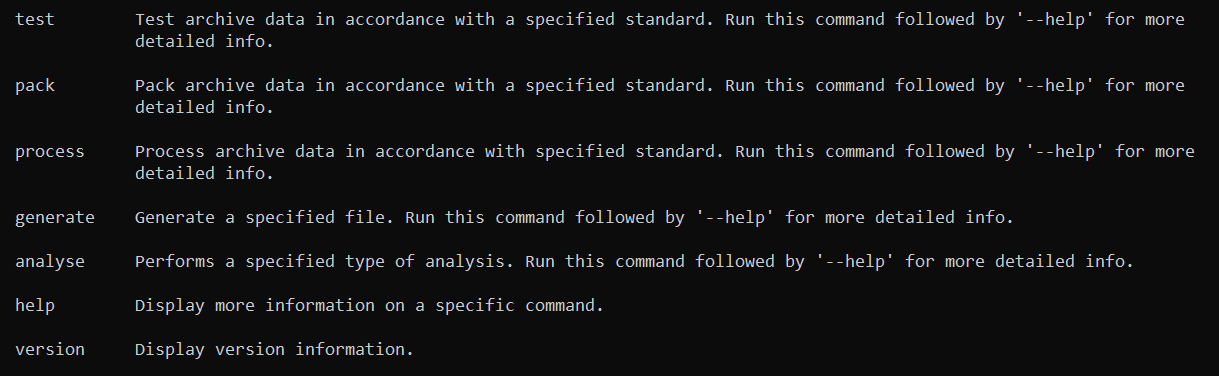
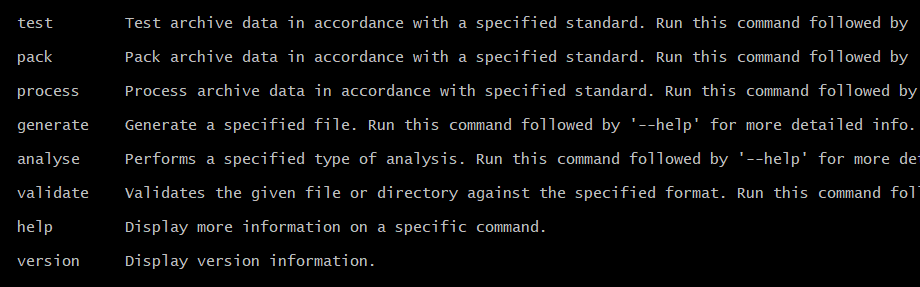
Update user and installation guides regarding archive format validation
ARKADE-570

diff --git a/Installasjonsveiledning.rst b/Installasjonsveiledning.rst
@@ -48,15 +48,12 @@ Aktiver støtte for validering av SIARD-2.1-filer
 
 For at Arkade skal støtte bruk av verktøyet |database_preservation_toolkit_link| for validering av Siard-filer må følgende instruksjoner utføres:
 
-Installer Java Runtime Environment
-----------------------------------
-* Last ned installasjonsfil for Java Runtime Environment (JRE) fra |java_download_link|
-* Installer JRE ved å dobbeltklikke den nedlastede filen
+* Installer Java Runtime Environment (`hjelp <Installasjonsveiledning.html#jre-info>`_)
 
-Tilgjengeligjør DBPTK Developer for Arkade
-------------------------------------------
-* Last ned :download:`dbptk-app-2.9.9.jar <https://github.com/keeps/dbptk-developer/releases/download/v2.9.9/dbptk-app-2.9.9.jar>`
-* Lagre den nedlastede filen under :file:`<arkadeinstallasjonsmappe>/ThirdPartySoftware/DBPTK/`.
+* Tilgjengeligjør DBPTK Developer for Arkade
+
+	- Last ned :download:`dbptk-app-2.9.9.jar <https://github.com/keeps/dbptk-developer/releases/download/v2.9.9/dbptk-app-2.9.9.jar>`
+	- Lagre den nedlastede filen under :file:`<arkadeinstallasjonsmappe>/ThirdPartySoftware/DBPTK/`.
 
 .. image:: img/dbptk_save_location.png
 
@@ -64,9 +61,16 @@ Tilgjengeligjør DBPTK Developer for Arkade
 
    <a href="https://database-preservation.com/#developer" target="_blank">Database Preservation Toolkit Developer (DBPTK Developer)</a>
 
-.. |java_download_link| raw:: html
 
-   <a href="https://java.com/en/download/" target="_blank" >https://java.com/en/download/</a>
+
+
+Aktiver støtte for validering av PDF/A
+~~~~~~~~~~~~~~~~~~~~~~~~~~~~~~~~~~~~~~
+
+For å kunne validere PDF/A-filer må Java Runtime Environment være installert:
+
+
+* Installer Java Runtime Environment (`hjelp <Installasjonsveiledning.html#jre-info>`_)
 
 
 Kjør programmet
@@ -198,17 +202,22 @@ Aktiver støtte for validering av SIARD-2.1-filer
 
 For at Arkade skal støtte bruk av verktøyet |database_preservation_toolkit_link| for validering av Siard-filer må følgende instruksjoner utføres:
 
-Installer Java Runtime Environment
-----------------------------------
-* Last ned installasjonsfil for Java Runtime Environment (JRE) fra |java_download_link|
-* Installer JRE ved å dobbeltklikke den nedlastede filen
+* Installer Java Runtime Environment (`hjelp <Installasjonsveiledning.html#jre-info>`_)
 
-Tilgjengeligjør DBPTK Developer for Arkade
-------------------------------------------
-* Last ned :download:`dbptk-app-2.9.9.jar <https://github.com/keeps/dbptk-developer/releases/download/v2.9.9/dbptk-app-2.9.9.jar>`
-* Lagre den nedlastede filen under :file:`<arkadeinstallasjonsmappe>/ThirdPartySoftware/DBPTK/`.
+* Tilgjengeligjør DBPTK Developer for Arkade
+
+	- Last ned :download:`dbptk-app-2.9.9.jar <https://github.com/keeps/dbptk-developer/releases/download/v2.9.9/dbptk-app-2.9.9.jar>`
+	- Lagre den nedlastede filen under :file:`<arkadeinstallasjonsmappe>/ThirdPartySoftware/DBPTK/`.
 
 .. image:: img/dbptk_save_location.png
+
+
+Aktiver støtte for validering av PDF/A
+~~~~~~~~~~~~~~~~~~~~~~~~~~~~~~~~~~~~~~
+
+For å kunne validere PDF/A-filer må Java Runtime Environment være installert:
+
+* Installer Java Runtime Environment (`hjelp <Installasjonsveiledning.html#jre-info>`_)
 
 
 Kjør Arkade 5 CLI
@@ -228,3 +237,16 @@ Avinstaller Arkade 5 CLI
 * **Windows:** Åpne ledetekst som administrator og kjør :code:`del C:\Windows\arkade.bat`
 
 *Mindre enn 1 uke gamle system- og feillogger slettes ikke automatisk etter kjøring.* `Les mer ... <Brukerveiledning.html#prosesseringsomrade-cli>`_
+
+
+
+.. tip:: Installer Java Runtime Environment
+	:name: jre-info
+	
+	* Last ned installasjonsfil for JRE fra |java_download_link|
+	* Installer JRE ved å dobbeltklikke den nedlastede filen
+
+
+.. |java_download_link| raw:: html
+
+   <a href="https://java.com/en/download/" target="_blank" >https://java.com/en/download/</a>

diff --git a/Brukerveiledning.rst b/Brukerveiledning.rst
@@ -47,7 +47,9 @@ Menyvalg
 | Åpner hjemmesiden til Arkade i standard nettleser.
 
 | |menuItem_tools| **- Verktøy**
-| Åpner et nytt vindu med tilleggsverktøy for Arkade. I gjeldende versjon er det eneste tilgjengelige tilleggsverktøyet PRONOM-filanalyse av en valgt katalog.
+| Åpner et nytt vindu med tilleggsverktøy for Arkade:
+| 	- PRONOM-filanalyse av en valgt katalog.
+| 	- Validering av arkivformat for en valgt fil.
 
 
 Innlastingsvinduet
@@ -326,6 +328,25 @@ Kommandoen under ufører PRONOM filformat-analyse på alt innhold i katalogen so
 | *Valgbare parametre ved analyse:*
 | :code:`--output-filename`/:code:`-O` (stor O)
 | :code:`--language`/:code:`-l` - `Velg hvilket språk <#sprak-language-l>`_ filer som blir generert av Arkade skal ha.
+
+:command:`validate` - Utfør validering
+^^^^^^^^^^^^^^^^^^^^^^^^^^^^^^^^^^^^^^
+
+Kommandoen validerer en fil oppgitt med parameteren :code:`--item`/:code:`-i` mot et gyldig arkivformat oppgitt med parameteren :code:`--format`/:code:`-f`. Resultatet vises på skjermen.
+
+Støttede formater
+ * PDF/A
+
+Eksempel:
+
+.. code-block:: bash
+
+	arkade validate -i ~/N5-arkivuttrekk/dokumenter/dokument.pdf -f PDF/A
+
+| *Obligatoriske parametre ved validering:*
+| :code:`--item`/:code:`-i` - Oppgi stien til filen som skal valideres.
+| :code:`--format`/:code:`-f` - Oppgi arkivformatet som filen skal valideres mot.
+
 
 Resulterende data
 ^^^^^^^^^^^^^^^^^
